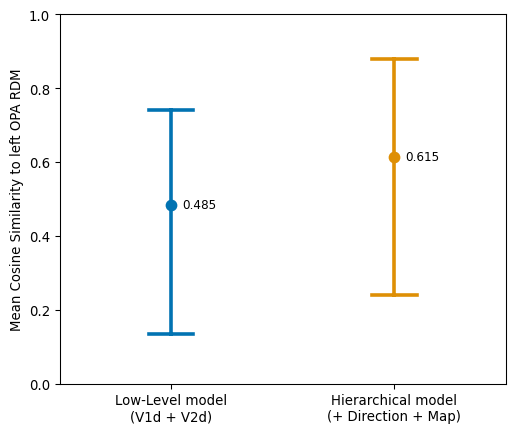
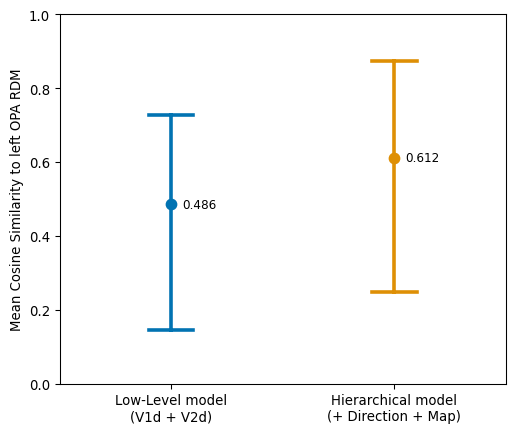
Transmit: Merge remote-tracking branch 'origin/main'

diff --git a/content/Workbench/scene-areas-hierarchy-rsa/scene-areas-hierarchy-rsa.md b/content/Workbench/scene-areas-hierarchy-rsa/scene-areas-hierarchy-rsa.md
@@ -1,12 +1,15 @@
 ---
 created: 2026-07-14
-modified: 2026-07-15
+modified: 2026-07-18
 Title: Multiple Regression RSA of Scene-Selective Areas in Human fMRI
 authors:
   - Dr. Akash Mer
 source: https://github.com/AkashMer/workbench/tree/main/scripts/scene-areas-hierarchy-rsa
 ---
-This post uses human fMRI data to answer the following question: <a href="Landscape/@Epstein_2019/@Epstein_2019" class="wikilink"> Can the relationship between low-level features and the higher-level scene information and the hierarchical nature of scene-selective areas be demonstrated using RSA?</a>.
+# Multiple Regression RSA of Scene-Selective Areas in Human fMRI
+
+
+This post uses human fMRI data to answer the following question: <a href="Landscape/@Epstein_2019/@Epstein_2019" class="wikilink">Can the relationship between low-level features and the higher-level scene information and the hierarchical nature of scene-selective areas be demonstrated using RSA?</a>.
 
 ## Stimulus Description
 
@@ -926,7 +929,7 @@ Figure 2: **RDM Robustness Check**: *mean off-diagonal crossnobis distance (dot
 
 </div>
 
-From the surviving ROIs, the following hierarchical hypothesis is defined: *left V1d* $\to$ *left V2d* $\to$ *left OPA*.  The rationale for choosing only the dorsal primary areas is the OPA's greater sensitivity to lower visual field([Epstein & Baker, 2019](#ref-Epstein_2019)).
+From the surviving ROIs, the following hierarchical hypothesis is defined: *left V1d* $\to$ *left V2d* $\to$ *left OPA*. The rationale for choosing only the dorsal primary areas is the OPA’s greater sensitivity to lower visual field([Epstein & Baker, 2019](#ref-Epstein_2019)).
 
 ## Visualizing the Representational Map
 
@@ -1002,7 +1005,7 @@ Multidimensional scaling (MDS) projects each ROI’s 12-dimensional representati
 <summary>Code</summary>
 
 ``` python
-# Peform prodcrustus aligned MDS scaling of RDMs
+# Peform procrustus aligned MDS scaling of RDMs
 mds_rows = []
 pathway_reference = None
 for stage, name in enumerate(pathway_rois):
@@ -1217,6 +1220,335 @@ Figure 4: **MR-RSA model comparison**: *Mean Cosine Similarity with left OPA RD
 
 Example stimulus videos are provided as supplementary material by both ([Zhang & Naya, 2020](#ref-Zhang_2020)) and ([Zhang et al., 2022](#ref-Zhang_2022a)) but do not cover all 12 map-direction combinations. I hereby suggest a plan to work around this limitation by replacing the characters with uniform color pixels while preserving the character silhouettes. The modified video can then serve as a good proxy for the original stimulus structure allowing extracttion of exact low-level features shown to the participant.
 
+## Addendum: Analysis of Bilaterally Pooled OPA Pathway
+
+*Jul 18, 2026*
+
+The GLM effect sizes of bilateral areas along the hypothetical pathway, *V1d* $\to$ *V2d* $\to$ *OPA*, were pooled across hemispheres. This will test whether the analysis was confounded by limiting to left-sided areas whose RDMs passed the robustness check. The same RDM structure and MDS visualizations along with MR-RSA validation are repeated on this bilaterally pooled data.
+
+### Structure of RDMs
+
+<details class="code-fold">
+<summary>Code</summary>
+
+``` python
+# Pool left and right hemisphere voxels/masks per region along the dorsal pathway
+pathway_regions = ['v1d', 'v2d', 'opa']
+pooled_roi_masks = {}
+for region in pathway_regions:
+    pooled_mask = None
+    for hemi in ['lh', 'rh']:
+        native_mask_path = label_dir / f"{hemi}.{region}.top800.nii.gz"
+        native_mask_ants = ants.image_read(str(native_mask_path))
+        # Transform to MNI space
+        transformed_ants = ants.apply_transforms(fixed=ants.from_nibabel_nifti(subject_mask), moving=native_mask_ants,
+                                           transformlist=[str(t1w_to_mni_xfm)],
+                                           interpolator='genericLabel')
+        roi_mask = ants.to_nibabel_nifti(transformed_ants).get_fdata().astype(bool)
+        # Pool the two hemispheres together
+        pooled_mask = roi_mask if pooled_mask is None else (pooled_mask | roi_mask)
+    pooled_roi_masks[region] = pooled_mask & brain_mask_data
+
+# Pull out actual effect sizes per pooled ROI, voxels x (condition x run) observations
+betas_4d_data = betas_4d.get_fdata()
+pooled_roi_betas_data = {}
+for name, mask in pooled_roi_masks.items():
+    pooled_roi_betas_data[name] = betas_4d_data[mask]
+# Pooled ROI-masked residuals per run, needed for the crossnobis noise precision matrix
+pooled_roi_residual_data = {}
+for name, mask in pooled_roi_masks.items():
+    pooled_roi_residual_data[name] = [res.get_fdata()[mask] for res in run_residuals]
+
+# MAD-based outlier voxel exclusion modified z > 3.5
+# Applied to every pooled ROI to exclude any outliers driving statistical analysis
+for name in pooled_roi_betas_data:
+    voxel_std = pooled_roi_betas_data[name].std(axis=1)
+    mad = np.median(np.abs(voxel_std - np.median(voxel_std)))
+    modified_z = 0.6745 * (voxel_std - np.median(voxel_std)) / mad
+    keep_voxels = np.abs(modified_z) <= 3.5
+    pooled_roi_betas_data[name] = pooled_roi_betas_data[name][keep_voxels]
+    pooled_roi_residual_data[name] = [res[keep_voxels] for res in pooled_roi_residual_data[name]]
+
+# Neural RSA via rsatoolbox, crossnobis distance
+pooled_condition_rdm_objects = {}
+for name, roi_data in pooled_roi_betas_data.items():
+    # Define the dataset for rsatoolbox
+    dataset = rsatoolbox.data.Dataset(
+        measurements=roi_data.T,
+        obs_descriptors={'map': beta_meta['map'].values,
+                          'walking_direction': beta_meta['walking_direction'].values,
+                          'map_direction': beta_meta['map_direction'].values,
+                          'run': beta_meta['run'].astype(str).values}
+    )
+    # Compute the noise precision matrix for crossnobis distance
+    noise_precision = [rsatoolbox.data.prec_from_residuals(residuals.T)
+                        for residuals in pooled_roi_residual_data[name]]
+    # Store the raw RDMs object directly, no DataFrame conversion
+    pooled_condition_rdm_objects[name] = rsatoolbox.rdm.calc_rdm_crossnobis(dataset, descriptor='map_direction',
+                                                                             noise=noise_precision, cv_descriptor='run')
+
+# Final per-pooled-ROI voxel count
+pooled_roi_voxel_counts = {name: roi_data.shape[0] for name, roi_data in pooled_roi_betas_data.items()}
+
+# Display the pooled 12x12 map x direction ROI RDMs for the dorsal pathway only
+# Walking direction forms the big blocks, map forms the small blocks within each
+pooled_region_titles = {'v1d': 'V1d', 'v2d': 'V2d', 'opa': 'OPA'}
+
+# One shared color scale based on off-diagonal values across the pathway
+pooled_off_diagonal = []
+for region in pathway_regions:
+    matrix = pooled_condition_rdm_objects[region].get_matrices()[0]
+    pooled_off_diagonal.append(matrix[~np.eye(matrix.shape[0], dtype=bool)])
+pooled_off_diagonal = np.concatenate(pooled_off_diagonal)
+# 98th percentile of the off-diagonal entries to avoid outlier influence on the color scale
+vmax = np.percentile(pooled_off_diagonal, 98)
+
+# Plot the heatmaps
+fig, axes = plt.subplots(1, len(pathway_regions), figsize=(4 * len(pathway_regions) + 1, 4.5),
+                          constrained_layout=True,
+                          gridspec_kw={'wspace': 0.15})
+for col, region in enumerate(pathway_regions):
+    rdm_obj = pooled_condition_rdm_objects[region]
+    rdm_df = pd.DataFrame(rdm_obj.get_matrices()[0],
+                           index=rdm_obj.pattern_descriptors['map_direction'],
+                           columns=rdm_obj.pattern_descriptors['map_direction'])
+    reordered_rdm = rdm_df.loc[direction_major_order, direction_major_order]
+    # Plot the heatmap
+    sns.heatmap(reordered_rdm, ax=axes[col], cmap='viridis', vmin=0, vmax=vmax,
+                cbar=False, square=True) # Negative values collapsed to zero since they usually represent noise
+    axes[col].set_title(f'{pooled_region_titles[region]} ({pooled_roi_voxel_counts[region]})', fontsize=26)
+    axes[col].set_xticks([])
+    axes[col].set_yticks([])
+    # Mark the boundaries between the 4 walking-direction blocks
+    for boundary in range(3, 12, 3):
+        axes[col].axhline(boundary, color='black', linewidth=1)
+        axes[col].axvline(boundary, color='black', linewidth=1)
+# One shared vertical colorbar
+mappable = plt.cm.ScalarMappable(cmap='viridis', norm=plt.Normalize(vmin=0, vmax=vmax))
+cbar = fig.colorbar(mappable, ax=axes[:], orientation='vertical', fraction=0.07, pad=0.02, ticks=[0, vmax])
+cbar.ax.set_yticklabels(['0.000', f'{vmax:.3f}'], fontsize=18)
+fig.text(1.02, 0.5, 'Crossnobis distance', fontsize=22, rotation=90, va='center', ha='center')
+plt.show();
+```
+
+</details>
+
+<div id="fig-rdm-heatmaps-pooled">
+
+![](/Workbench/scene-areas-hierarchy-rsa/scene-areas-hierarchy-rsa_files/figure-commonmark/fig-rdm-heatmaps-pooled-output-1.png)
+
+Figure 5: **Bilaterally pooled RDM** for participant 26: *Walking direction forms the large blocks, map forms the small blocks within. Brackets show number of voxels in each area*
+
+</div>
+
+*OPA* shows a distinct structure separating directions 1 & 2 from 3 & 4. Directions 1 & 2 have two characters in the back corners of the square and one character in either of the front corners. Directions 3 & 4 have two characters in the front corners and one character in either of the back corners of the square. Thus the split representational structure is not capturing the laterality of the visual field. The structure may be representing the overall layout itself. Bilaterally pooled *V1d* and *V2d* show a similar structure as their left counterparts but the dissimilarity is more pronounced.
+
+### Multidimensional Scaling Visualization
+
+<details class="code-fold">
+<summary>Code</summary>
+
+``` python
+# Get the number of conditions
+n_conditions = len(pooled_condition_rdm_objects[pathway_regions[0]].pattern_descriptors['map_direction'])
+# Build the centering matrix
+centering_matrix = np.eye(n_conditions) - np.ones((n_conditions, n_conditions)) / n_conditions
+
+pooled_participation_ratios = {}
+for name in pathway_regions:
+    # Extract the 12x12 squared crossnobis distance matrix
+    D = pooled_condition_rdm_objects[name].get_matrices()[0]
+    # Compute the similarity matrix
+    S = -0.5 * centering_matrix @ D @ centering_matrix
+    # Get the eigenvalues of the similarity matrix
+    eigenvalues = np.linalg.eigvalsh(S)
+    # Clip tiny negative eigenvalues (floating-point noise) to zero
+    eigenvalues = np.maximum(eigenvalues, 0)
+    # Compute the raw participation ratio
+    pr = (eigenvalues.sum() ** 2) / (eigenvalues ** 2).sum()
+    # Normalize by the max achievable rank (n - 1, centering removes one dimension)
+    pooled_participation_ratios[name] = pr / (n_conditions - 1)
+
+# Peform procrustus aligned MDS scaling of RDMs
+mds_rows = []
+pathway_reference = None
+for stage, name in enumerate(pathway_regions):
+    rdm_matrix = pooled_condition_rdm_objects[name].get_matrices()[0]
+    condition_labels = pooled_condition_rdm_objects[name].pattern_descriptors['map_direction']
+    # Scale the RDM down to 2 dimensions
+    mds_estimator = MDS(n_components=2, dissimilarity='precomputed', random_state=23, normalized_stress=True, n_init=4)
+    mds_coords = mds_estimator.fit_transform(rdm_matrix)
+    # Align every ROI's MDS solution to the previous ROI along the pathway, for visualization only
+    if stage == 0:
+        pathway_reference = mds_coords
+    else:
+        # Compute the procrustes alignment
+        mds_coords = procrustes(pathway_reference, mds_coords)[1]
+        # Grab the current ROI's aligned coordinates to use for next ROI's alignment
+        pathway_reference = mds_coords
+    # Build a tidy row per condition
+    for i, label in enumerate(condition_labels):
+        mds_rows.append({
+            'roi': name,
+            'x': mds_coords[i, 0],
+            'y': mds_coords[i, 1],
+            'direction': label.split('_')[1],
+            'map': label.split('_')[0],
+            'stress': mds_estimator.stress_,
+        })
+mds_df = pd.DataFrame(mds_rows)
+
+# Top row: colored by direction, Bottom row: colored by map
+direction_palette = sns.color_palette('colorblind', n_colors=4)
+map_palette = [sns.color_palette('colorblind')[i] for i in (0, 2, 3)]
+fig, axes = plt.subplots(2, len(pathway_regions), figsize=(5 * len(pathway_regions), 10), constrained_layout=True)
+for col, name in enumerate(pathway_regions):
+    stage_data = mds_df.query('roi == @name')
+    pr_pct = pooled_participation_ratios[name] * 100
+    title = f'{pooled_region_titles[name]}\nStress: {stage_data["stress"].iloc[0]:.2f} (PR: {pr_pct:.1f}%)'
+
+    # Top row: direction, circles
+    sns.scatterplot(stage_data, x='x', y='y', hue='direction', marker='o',
+                     palette=direction_palette, s=140, ax=axes[0, col],
+                     legend=(col == len(pathway_regions) - 1))
+    axes[0, col].set_title(title, fontsize=16)
+
+    # Bottom row: map, squares
+    sns.scatterplot(stage_data, x='x', y='y', hue='map', marker='s',
+                     palette=map_palette, s=140, ax=axes[1, col],
+                     legend=(col == len(pathway_regions) - 1))
+
+    for ax in (axes[0, col], axes[1, col]):
+        ax.set_xticks([])
+        ax.set_yticks([])
+        ax.set_xlabel('')
+        ax.set_ylabel('')
+# Draw each row's legend outside the figure to the right
+direction_handles, direction_labels = axes[0, -1].get_legend_handles_labels()
+axes[0, -1].get_legend().remove()
+map_handles, map_labels = axes[1, -1].get_legend_handles_labels()
+axes[1, -1].get_legend().remove()
+fig.legend(direction_handles, direction_labels, loc='center left', bbox_to_anchor=(1.0, 0.75), fontsize=16, title='Direction', title_fontsize=16)
+fig.legend(map_handles, map_labels, loc='center left', bbox_to_anchor=(1.0, 0.25), fontsize=16, title='Map', title_fontsize=16)
+plt.show();
+```
+
+</details>
+
+<div id="fig-pathway-mds-pooled">
+
+![](/Workbench/scene-areas-hierarchy-rsa/scene-areas-hierarchy-rsa_files/figure-commonmark/fig-pathway-mds-pooled-output-1.png)
+
+Figure 6: **Areawise-MDS representational maps along the bilaterally pooled pathway**: *Top row colored by walking direction, bottom row colored by map (position of the characters). Each column is Procrustes-aligned to the previous ROI’s MDS for comparison. Stress and participation ratio (PR) % shown per ROI.*
+
+</div>
+
+All three areas’ representational structure separates the walking direction condition much more cleanly as compared to <a href="#fig-pathway-mds" class="quarto-xref">Figure 3</a>. *V1d* and *V2d* show directions in the following order: 2, 1, 4, and 3 from top left to bottom right. *OPA* separates directions 1 & 2 from direction 4 from top left to bottom right with direction 3 scattered in between. For the map conditions, none of the areas cleanly separate except for *OPA* which separates maps 1 & 2, but map 3’s instances are split on opposite sides. The monotonic increase in PR% is still present between primary visual areas and OPA, but MDS stress no longer increases monotonically with *V1d* having the highest value. The contralateral hemifield sensitivity of the early visual areas, especially V1 could be inflating the dimensionality implying that the bilaterally pooled areas may not share representational structure. The opposite could be true for *OPA*, where bilateral pooling improves the categorical representational structure.
+
+### Validation
+
+Multiple regression RSA (MR-RSA)([Bosch et al., 2025](#ref-Bosch_2025)) was performed in the same way as before using bilaterally pooled *V1d* and *V2d* as low-level biological feature extractors.
+
+<details class="code-fold">
+<summary>Code</summary>
+
+``` python
+import matplotlib.gridspec as gridspec
+
+# Fixed condition order for every model/neural RDM
+condition_order = list(pooled_condition_rdm_objects['v1d'].pattern_descriptors['map_direction'])
+
+# Build the 12x12 direction and map model RDMs with directions as primary and map as secondary
+directions_12 = [label.split('_')[1] for label in condition_order]
+maps_12 = [label.split('_')[0] for label in condition_order]
+direction_rdm_12 = (np.array(directions_12)[:, None] != np.array(directions_12)[None, :]).astype(int)
+map_rdm_12 = (np.array(maps_12)[:, None] != np.array(maps_12)[None, :]).astype(int)
+direction_vec = direction_rdm_12[np.triu_indices(len(condition_order), k=1)]
+map_vec = map_rdm_12[np.triu_indices(len(condition_order), k=1)]
+
+# Vectorize the pooled V1d and V2d RDMs
+v1d_vec = pooled_condition_rdm_objects['v1d'].get_vectors()[0]
+v2d_vec = pooled_condition_rdm_objects['v2d'].get_vectors()[0]
+
+# VIF for each predictor to look for collinearity of factors, computed separately per model
+def compute_vif(predictor_dict):
+    predictors = pd.DataFrame(predictor_dict)
+    # Add the intercept column
+    predictors_with_const = predictors.assign(const=1.0)
+    return pd.Series(
+        [variance_inflation_factor(predictors_with_const.values, i)
+         for i in range(predictors.shape[1])],
+        index=predictors.columns, name='VIF')
+
+vif_low_level = compute_vif({'V1d': v1d_vec, 'V2d': v2d_vec})
+vif_direction_map = compute_vif({'V1d': v1d_vec, 'V2d': v2d_vec, 'Direction': direction_vec, 'Map': map_vec})
+
+# Build the baseline model with only primary visual RDMs
+low_level_model = rsatoolbox.model.ModelWeighted('low_level', np.vstack([v1d_vec, v2d_vec]))
+
+# Build the hierarchical model, direction and map
+direction_map_model = rsatoolbox.model.ModelWeighted('low_level_direction_map',
+                                                       np.vstack([v1d_vec, v2d_vec, direction_vec, map_vec]))
+
+# Compare the two models using bootstrap
+# Suppress eval_bootstrap_pattern's hardcoded tqdm progress bar, which writes to stderr
+with contextlib.redirect_stderr(io.StringIO()):
+    results = rsatoolbox.inference.eval_bootstrap_pattern(
+        models = [low_level_model, direction_map_model],
+        data = pooled_condition_rdm_objects['opa'],
+        N = 1000
+    )
+
+# Store the result into a tidy DataFrame
+model_labels = ['Low-Level Model\n(V1d + V2d)', 'Hierarchical Model\n(+ Direction + Map)']
+bootstrap_df = pd.DataFrame(results.evaluations, columns=model_labels).melt(var_name='Model', value_name='Cosine Similarity')
+
+# Compute the 2.5th/97.5th percentile of the bootstrap distribution
+def percentile_ci_95(x):
+    return np.percentile(x, 2.5), np.percentile(x, 97.5)
+
+# Plot the mean cosine similarity per model with 95% CI error bars, alongside a VIF table per model
+fig = plt.figure(figsize=(9, 5))
+gs = gridspec.GridSpec(1, 2, width_ratios=[1.3, 1], wspace=0.20)
+ax = fig.add_subplot(gs[0])
+sns.pointplot(data=bootstrap_df, x='Model', y='Cosine Similarity', hue='Model', palette='colorblind',
+              legend=False, errorbar=percentile_ci_95, capsize=0.2, linestyle='none', ax=ax)
+for i, mean in enumerate(results.get_means()):
+    ax.text(i + 0.05, mean, f'{mean:.3f}', ha='left', va='center', fontsize=9)
+ax.set_ylabel('Mean Cosine Similarity to OPA RDM')
+ax.set_ylim([0, 1])
+ax.set_xlabel('')
+ax.set_title('MR-RSA: Dorsal Pathway (no laterality)')
+
+# VIF table alongside the model comparison plot
+ax_table = fig.add_subplot(gs[1])
+ax_table.axis('off')
+vif_combined = pd.DataFrame({
+    'Low-Level\nModel': vif_low_level.reindex(['V1d', 'V2d', 'Direction', 'Map']),
+    'Hierarchical\nModel': vif_direction_map.reindex(['V1d', 'V2d', 'Direction', 'Map']),
+}).round(2)
+cell_text = vif_combined.fillna('—').values
+tbl = ax_table.table(cellText=cell_text, colLabels=vif_combined.columns, rowLabels=vif_combined.index,
+                      loc='upper center', cellLoc='center', colWidths=[0.35, 0.35])
+tbl.auto_set_font_size(False)
+tbl.set_fontsize(9)
+tbl.scale(1, 2.2)
+ax_table.set_title('VIF per model', fontsize=12, pad=10)
+plt.show();
+```
+
+</details>
+
+<div id="fig-mr-rsa-pooled">
+
+![](/Workbench/scene-areas-hierarchy-rsa/scene-areas-hierarchy-rsa_files/figure-commonmark/fig-mr-rsa-pooled-output-1.png)
+
+Figure 7: **MR-RSA model comparison**: *Mean Cosine Similarity with bilaterally pooled OPA RDM, low-level vs hierarchical models. VIF per predictor shown alongside for each model.*
+
+</div>
+
+<a href="#fig-mr-rsa-pooled" class="quarto-xref">Figure 7</a> shows that the hierarchical model is more similar to OPA RDM than the low-level model, but the 95% confidence intervals still overlap. Thus pooling of bilateral areas leads to the same conclusion reached with the *left V1d* $\to$ *V2d* $\to$ *OPA* pathway.
+
 ## Appendix
 
 <details class="code-fold">
@@ -1242,7 +1574,7 @@ pd.DataFrame(voxel_count_rows).set_index('ROI')
 
 Table 1: **Voxel counts per ROI** across processing stages: *atlas mask, post-transform to subject native space, and post-MAD outlier exclusion*
 
-<div class="cell-output cell-output-display" execution_count="13">
+<div class="cell-output cell-output-display" execution_count="16">
 
 <div>
 <style scoped>
@@ -1314,7 +1646,7 @@ plt.show();
 
 ![](/Workbench/scene-areas-hierarchy-rsa/scene-areas-hierarchy-rsa_files/figure-commonmark/fig-mds-stress-scree-output-1.png)
 
-Figure 5: **Normalized MDS stress vs. number of dimensions**
+Figure 8: **Normalized MDS stress vs. number of dimensions**
 
 </div>
 
